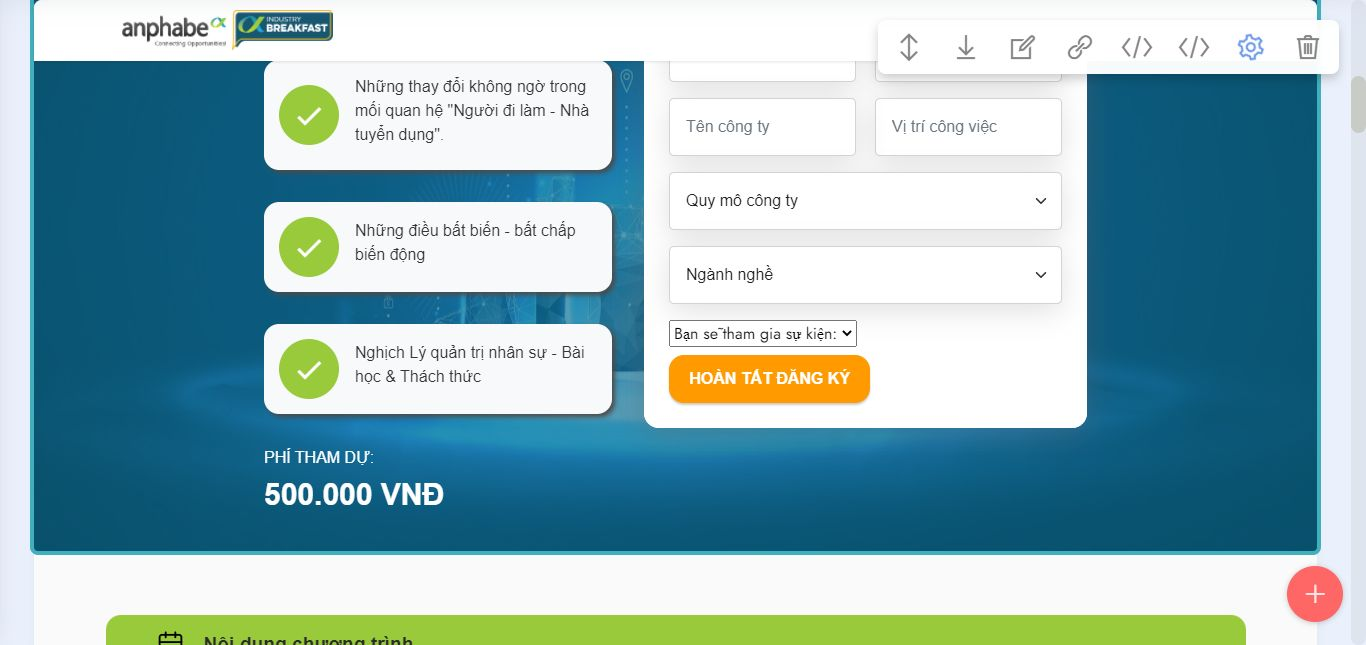
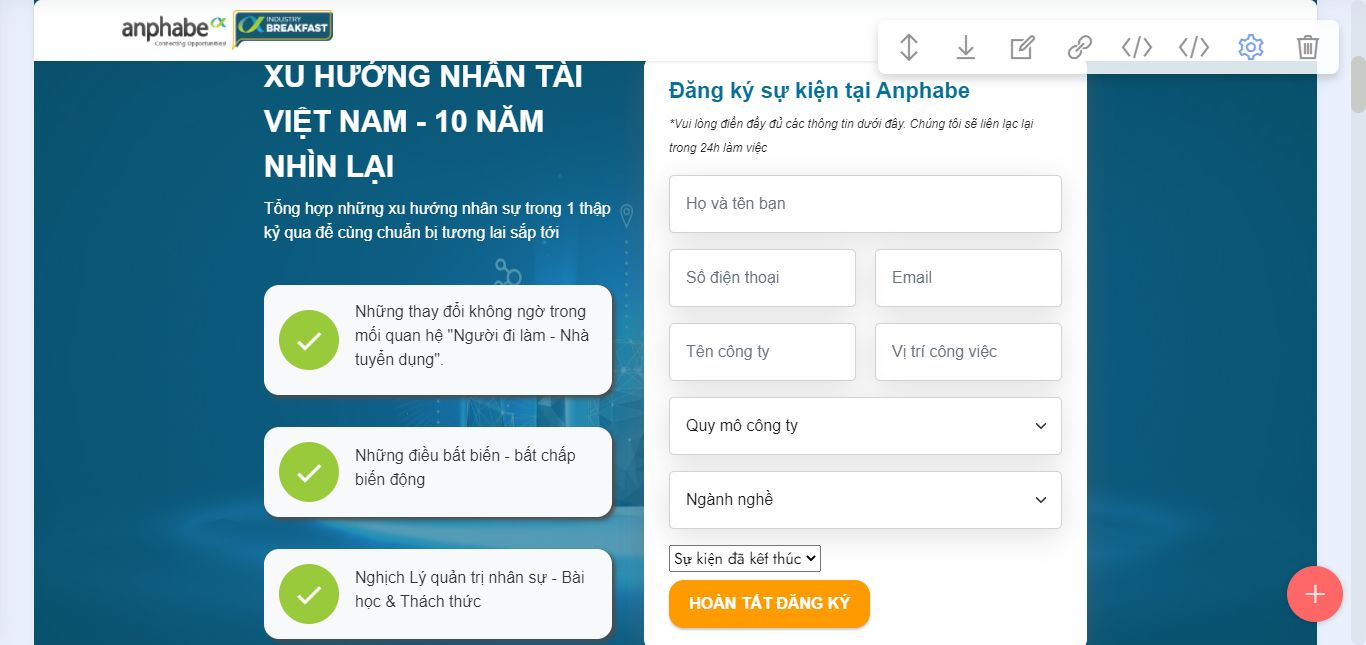
up

diff --git a/c/breakfast/index.html b/c/breakfast/index.html
@@ -97,7 +97,7 @@ overflow-x: hidden;
     </div>
 </section>
 
-<section data-bs-version="5.1" class="header9 cid-u6319yKajZ mbr-parallax-background" id="formlead_new" data-rv-view="3139">
+<section data-bs-version="5.1" class="header9 cid-u6319yKajZ mbr-parallax-background" id="formlead_new" data-rv-view="3615">
 
     
 
@@ -212,8 +212,8 @@ overflow-x: hidden;
                               <div class="multiselect">
                                 <div class="selectBox" onclick="showCheckboxes()">
                                   <select id="nhucautuvan1" name="nhucautuvan1" required="" data-required="true" data-form-field="nhucautuvan1" value="">
-                                    <option value="">Sự kiện đã kết thúc</option>
-                                    <option value="1" hidden="">Sự kiện đã kết thúc </option>
+                                    <option value="">Bạn sẽ tham gia sự kiện:</option>
+                                    <option value="1" hidden="">Bạn sẽ tham gia sự kiện:</option>
                                     
                                   </select>
                                   <div class="invalid-feedback">
@@ -640,8 +640,8 @@ overflow-x: hidden;
         
         <div class="row mbr-gallery mt-4">
             <div class="col-12 col-md-6 col-lg-2 item gallery-image">
-                <div class="item-wrapper" data-toggle="modal" data-bs-toggle="modal" data-target="#ua0vuhkV7j-modal" data-bs-target="#ua0vuhkV7j-modal">
-                    <img class="w-100" src="assets/images/industrybreakfast-img-1.webp" alt="" data-slide-to="0" data-bs-slide-to="0" data-target="#lb-ua0vuhkV7j" data-bs-target="#lb-ua0vuhkV7j">
+                <div class="item-wrapper" data-toggle="modal" data-bs-toggle="modal" data-target="#ua0CazwsgJ-modal" data-bs-target="#ua0CazwsgJ-modal">
+                    <img class="w-100" src="assets/images/industrybreakfast-img-1.webp" alt="" data-slide-to="0" data-bs-slide-to="0" data-target="#lb-ua0CazwsgJ" data-bs-target="#lb-ua0CazwsgJ">
                     <div class="icon-wrapper">
                         <span class="mobi-mbri mobi-mbri-search mbr-iconfont mbr-iconfont-btn"></span>
                     </div>
@@ -649,8 +649,8 @@ overflow-x: hidden;
                 
             </div>
             <div class="col-12 col-md-6 col-lg-2 item gallery-image">
-                <div class="item-wrapper" data-toggle="modal" data-bs-toggle="modal" data-target="#ua0vuhkV7j-modal" data-bs-target="#ua0vuhkV7j-modal">
-                    <img class="w-100" src="assets/images/industrybreakfast-img-2.webp" alt="" data-slide-to="1" data-bs-slide-to="1" data-target="#lb-ua0vuhkV7j" data-bs-target="#lb-ua0vuhkV7j">
+                <div class="item-wrapper" data-toggle="modal" data-bs-toggle="modal" data-target="#ua0CazwsgJ-modal" data-bs-target="#ua0CazwsgJ-modal">
+                    <img class="w-100" src="assets/images/industrybreakfast-img-2.webp" alt="" data-slide-to="1" data-bs-slide-to="1" data-target="#lb-ua0CazwsgJ" data-bs-target="#lb-ua0CazwsgJ">
                     <div class="icon-wrapper">
                         <span class="mobi-mbri mobi-mbri-search mbr-iconfont mbr-iconfont-btn"></span>
                     </div>
@@ -658,8 +658,8 @@ overflow-x: hidden;
                 
             </div>
             <div class="col-12 col-md-6 col-lg-2 item gallery-image">
-                <div class="item-wrapper" data-toggle="modal" data-bs-toggle="modal" data-target="#ua0vuhkV7j-modal" data-bs-target="#ua0vuhkV7j-modal">
-                    <img class="w-100" src="assets/images/industrybreakfast-img-3.webp" alt="" data-slide-to="2" data-bs-slide-to="2" data-target="#lb-ua0vuhkV7j" data-bs-target="#lb-ua0vuhkV7j">
+                <div class="item-wrapper" data-toggle="modal" data-bs-toggle="modal" data-target="#ua0CazwsgJ-modal" data-bs-target="#ua0CazwsgJ-modal">
+                    <img class="w-100" src="assets/images/industrybreakfast-img-3.webp" alt="" data-slide-to="2" data-bs-slide-to="2" data-target="#lb-ua0CazwsgJ" data-bs-target="#lb-ua0CazwsgJ">
                     <div class="icon-wrapper">
                         <span class="mobi-mbri mobi-mbri-search mbr-iconfont mbr-iconfont-btn"></span>
                     </div>
@@ -667,72 +667,72 @@ overflow-x: hidden;
                 
             </div>
             <div class="col-12 col-md-6 col-lg-2 item gallery-image">
-                <div class="item-wrapper" data-toggle="modal" data-bs-toggle="modal" data-target="#ua0vuhkV7j-modal" data-bs-target="#ua0vuhkV7j-modal">
-                    <img class="w-100" src="assets/images/industrybreakfast-img-4.webp" alt="" data-slide-to="3" data-bs-slide-to="3" data-target="#lb-ua0vuhkV7j" data-bs-target="#lb-ua0vuhkV7j">
+                <div class="item-wrapper" data-toggle="modal" data-bs-toggle="modal" data-target="#ua0CazwsgJ-modal" data-bs-target="#ua0CazwsgJ-modal">
+                    <img class="w-100" src="assets/images/industrybreakfast-img-4.webp" alt="" data-slide-to="3" data-bs-slide-to="3" data-target="#lb-ua0CazwsgJ" data-bs-target="#lb-ua0CazwsgJ">
                     <div class="icon-wrapper">
                         <span class="mobi-mbri mobi-mbri-search mbr-iconfont mbr-iconfont-btn"></span>
                     </div>
                 </div>
                 
             </div><div class="col-12 col-md-6 col-lg-2 item gallery-image">
-                <div class="item-wrapper" data-toggle="modal" data-bs-toggle="modal" data-target="#ua0vuhkV7j-modal" data-bs-target="#ua0vuhkV7j-modal">
-                    <img class="w-100" src="assets/images/industrybreakfast-img-5.webp" alt="" data-slide-to="4" data-bs-slide-to="4" data-target="#lb-ua0vuhkV7j" data-bs-target="#lb-ua0vuhkV7j">
+                <div class="item-wrapper" data-toggle="modal" data-bs-toggle="modal" data-target="#ua0CazwsgJ-modal" data-bs-target="#ua0CazwsgJ-modal">
+                    <img class="w-100" src="assets/images/industrybreakfast-img-5.webp" alt="" data-slide-to="4" data-bs-slide-to="4" data-target="#lb-ua0CazwsgJ" data-bs-target="#lb-ua0CazwsgJ">
                     <div class="icon-wrapper">
                         <span class="mobi-mbri mobi-mbri-search mbr-iconfont mbr-iconfont-btn"></span>
                     </div>
                 </div>
                 
             </div><div class="col-12 col-md-6 col-lg-2 item gallery-image">
-                <div class="item-wrapper" data-toggle="modal" data-bs-toggle="modal" data-target="#ua0vuhkV7j-modal" data-bs-target="#ua0vuhkV7j-modal">
-                    <img class="w-100" src="assets/images/industrybreakfast-img-6.webp" alt="" data-slide-to="5" data-bs-slide-to="5" data-target="#lb-ua0vuhkV7j" data-bs-target="#lb-ua0vuhkV7j">
+                <div class="item-wrapper" data-toggle="modal" data-bs-toggle="modal" data-target="#ua0CazwsgJ-modal" data-bs-target="#ua0CazwsgJ-modal">
+                    <img class="w-100" src="assets/images/industrybreakfast-img-6.webp" alt="" data-slide-to="5" data-bs-slide-to="5" data-target="#lb-ua0CazwsgJ" data-bs-target="#lb-ua0CazwsgJ">
                     <div class="icon-wrapper">
                         <span class="mobi-mbri mobi-mbri-search mbr-iconfont mbr-iconfont-btn"></span>
                     </div>
                 </div>
                 
             </div><div class="col-12 col-md-6 col-lg-2 item gallery-image">
-                <div class="item-wrapper" data-toggle="modal" data-bs-toggle="modal" data-target="#ua0vuhkV7j-modal" data-bs-target="#ua0vuhkV7j-modal">
-                    <img class="w-100" src="assets/images/industrybreakfast-img-7.webp" alt="" data-slide-to="6" data-bs-slide-to="6" data-target="#lb-ua0vuhkV7j" data-bs-target="#lb-ua0vuhkV7j">
+                <div class="item-wrapper" data-toggle="modal" data-bs-toggle="modal" data-target="#ua0CazwsgJ-modal" data-bs-target="#ua0CazwsgJ-modal">
+                    <img class="w-100" src="assets/images/industrybreakfast-img-7.webp" alt="" data-slide-to="6" data-bs-slide-to="6" data-target="#lb-ua0CazwsgJ" data-bs-target="#lb-ua0CazwsgJ">
                     <div class="icon-wrapper">
                         <span class="mobi-mbri mobi-mbri-search mbr-iconfont mbr-iconfont-btn"></span>
                     </div>
                 </div>
                 
             </div><div class="col-12 col-md-6 col-lg-2 item gallery-image">
-                <div class="item-wrapper" data-toggle="modal" data-bs-toggle="modal" data-target="#ua0vuhkV7j-modal" data-bs-target="#ua0vuhkV7j-modal">
-                    <img class="w-100" src="assets/images/industrybreakfast-img-8.webp" alt="" data-slide-to="7" data-bs-slide-to="7" data-target="#lb-ua0vuhkV7j" data-bs-target="#lb-ua0vuhkV7j">
+                <div class="item-wrapper" data-toggle="modal" data-bs-toggle="modal" data-target="#ua0CazwsgJ-modal" data-bs-target="#ua0CazwsgJ-modal">
+                    <img class="w-100" src="assets/images/industrybreakfast-img-8.webp" alt="" data-slide-to="7" data-bs-slide-to="7" data-target="#lb-ua0CazwsgJ" data-bs-target="#lb-ua0CazwsgJ">
                     <div class="icon-wrapper">
                         <span class="mobi-mbri mobi-mbri-search mbr-iconfont mbr-iconfont-btn"></span>
                     </div>
                 </div>
                 
             </div><div class="col-12 col-md-6 col-lg-2 item gallery-image">
-                <div class="item-wrapper" data-toggle="modal" data-bs-toggle="modal" data-target="#ua0vuhkV7j-modal" data-bs-target="#ua0vuhkV7j-modal">
-                    <img class="w-100" src="assets/images/industrybreakfast-img-9.webp" alt="" data-slide-to="8" data-bs-slide-to="8" data-target="#lb-ua0vuhkV7j" data-bs-target="#lb-ua0vuhkV7j">
+                <div class="item-wrapper" data-toggle="modal" data-bs-toggle="modal" data-target="#ua0CazwsgJ-modal" data-bs-target="#ua0CazwsgJ-modal">
+                    <img class="w-100" src="assets/images/industrybreakfast-img-9.webp" alt="" data-slide-to="8" data-bs-slide-to="8" data-target="#lb-ua0CazwsgJ" data-bs-target="#lb-ua0CazwsgJ">
                     <div class="icon-wrapper">
                         <span class="mobi-mbri mobi-mbri-search mbr-iconfont mbr-iconfont-btn"></span>
                     </div>
                 </div>
                 
             </div><div class="col-12 col-md-6 col-lg-2 item gallery-image">
-                <div class="item-wrapper" data-toggle="modal" data-bs-toggle="modal" data-target="#ua0vuhkV7j-modal" data-bs-target="#ua0vuhkV7j-modal">
-                    <img class="w-100" src="assets/images/industrybreakfast-img-10.webp" alt="" data-slide-to="9" data-bs-slide-to="9" data-target="#lb-ua0vuhkV7j" data-bs-target="#lb-ua0vuhkV7j">
+                <div class="item-wrapper" data-toggle="modal" data-bs-toggle="modal" data-target="#ua0CazwsgJ-modal" data-bs-target="#ua0CazwsgJ-modal">
+                    <img class="w-100" src="assets/images/industrybreakfast-img-10.webp" alt="" data-slide-to="9" data-bs-slide-to="9" data-target="#lb-ua0CazwsgJ" data-bs-target="#lb-ua0CazwsgJ">
                     <div class="icon-wrapper">
                         <span class="mobi-mbri mobi-mbri-search mbr-iconfont mbr-iconfont-btn"></span>
                     </div>
                 </div>
                 
             </div><div class="col-12 col-md-6 col-lg-2 item gallery-image">
-                <div class="item-wrapper" data-toggle="modal" data-bs-toggle="modal" data-target="#ua0vuhkV7j-modal" data-bs-target="#ua0vuhkV7j-modal">
-                    <img class="w-100" src="assets/images/industrybreakfast-img-11.webp" alt="" data-slide-to="10" data-bs-slide-to="10" data-target="#lb-ua0vuhkV7j" data-bs-target="#lb-ua0vuhkV7j">
+                <div class="item-wrapper" data-toggle="modal" data-bs-toggle="modal" data-target="#ua0CazwsgJ-modal" data-bs-target="#ua0CazwsgJ-modal">
+                    <img class="w-100" src="assets/images/industrybreakfast-img-11.webp" alt="" data-slide-to="10" data-bs-slide-to="10" data-target="#lb-ua0CazwsgJ" data-bs-target="#lb-ua0CazwsgJ">
                     <div class="icon-wrapper">
                         <span class="mobi-mbri mobi-mbri-search mbr-iconfont mbr-iconfont-btn"></span>
                     </div>
                 </div>
                 
             </div><div class="col-12 col-md-6 col-lg-2 item gallery-image">
-                <div class="item-wrapper" data-toggle="modal" data-bs-toggle="modal" data-target="#ua0vuhkV7j-modal" data-bs-target="#ua0vuhkV7j-modal">
-                    <img class="w-100" src="assets/images/industrybreakfast-img-12.webp" alt="" data-slide-to="11" data-bs-slide-to="11" data-target="#lb-ua0vuhkV7j" data-bs-target="#lb-ua0vuhkV7j">
+                <div class="item-wrapper" data-toggle="modal" data-bs-toggle="modal" data-target="#ua0CazwsgJ-modal" data-bs-target="#ua0CazwsgJ-modal">
+                    <img class="w-100" src="assets/images/industrybreakfast-img-12.webp" alt="" data-slide-to="11" data-bs-slide-to="11" data-target="#lb-ua0CazwsgJ" data-bs-target="#lb-ua0CazwsgJ">
                     <div class="icon-wrapper">
                         <span class="mobi-mbri mobi-mbri-search mbr-iconfont mbr-iconfont-btn"></span>
                     </div>
@@ -741,11 +741,11 @@ overflow-x: hidden;
             </div>
         </div>
 
-        <div class="modal mbr-slider" tabindex="-1" role="dialog" aria-hidden="true" id="ua0vuhkV7j-modal">
+        <div class="modal mbr-slider" tabindex="-1" role="dialog" aria-hidden="true" id="ua0CazwsgJ-modal">
             <div class="modal-dialog" role="document">
                 <div class="modal-content">
                     <div class="modal-body">
-                        <div class="carousel slide carousel-fade" id="lb-ua0vuhkV7j" data-ride="carousel" data-bs-ride="carousel" data-interval="5000" data-bs-interval="5000">
+                        <div class="carousel slide carousel-fade" id="lb-ua0CazwsgJ" data-ride="carousel" data-bs-ride="carousel" data-interval="5000" data-bs-interval="5000">
                             <div class="carousel-inner">
                                 <div class="carousel-item active">
                                     <img class="d-block w-100" src="assets/images/industrybreakfast-img-1.webp" alt="Mobirise Website Builder">
@@ -777,18 +777,18 @@ overflow-x: hidden;
                                 </div>
                             </div>
                             <ol class="carousel-indicators">
-                                <li data-slide-to="0" data-bs-slide-to="0" class="active" data-target="#lb-ua0vuhkV7j" data-bs-target="#lb-ua0vuhkV7j"></li>
-                                <li data-slide-to="1" data-bs-slide-to="1" data-target="#lb-ua0vuhkV7j" data-bs-target="#lb-ua0vuhkV7j"></li>
-                                <li data-slide-to="2" data-bs-slide-to="2" data-target="#lb-ua0vuhkV7j" data-bs-target="#lb-ua0vuhkV7j"></li>
-                                <li data-slide-to="3" data-bs-slide-to="3" data-target="#lb-ua0vuhkV7j" data-bs-target="#lb-ua0vuhkV7j"></li><li data-slide-to="4" data-bs-slide-to="4" data-target="#lb-ua0vuhkV7j" data-bs-target="#lb-ua0vuhkV7j"></li><li data-slide-to="5" data-bs-slide-to="5" data-target="#lb-ua0vuhkV7j" data-bs-target="#lb-ua0vuhkV7j"></li><li data-slide-to="6" data-bs-slide-to="6" data-target="#lb-ua0vuhkV7j" data-bs-target="#lb-ua0vuhkV7j"></li><li data-slide-to="7" data-bs-slide-to="7" data-target="#lb-ua0vuhkV7j" data-bs-target="#lb-ua0vuhkV7j"></li><li data-slide-to="8" data-bs-slide-to="8" data-target="#lb-ua0vuhkV7j" data-bs-target="#lb-ua0vuhkV7j"></li><li data-slide-to="9" data-bs-slide-to="9" data-target="#lb-ua0vuhkV7j" data-bs-target="#lb-ua0vuhkV7j"></li><li data-slide-to="10" data-bs-slide-to="10" data-target="#lb-ua0vuhkV7j" data-bs-target="#lb-ua0vuhkV7j"></li><li data-slide-to="11" data-bs-slide-to="11" data-target="#lb-ua0vuhkV7j" data-bs-target="#lb-ua0vuhkV7j"></li>
+                                <li data-slide-to="0" data-bs-slide-to="0" class="active" data-target="#lb-ua0CazwsgJ" data-bs-target="#lb-ua0CazwsgJ"></li>
+                                <li data-slide-to="1" data-bs-slide-to="1" data-target="#lb-ua0CazwsgJ" data-bs-target="#lb-ua0CazwsgJ"></li>
+                                <li data-slide-to="2" data-bs-slide-to="2" data-target="#lb-ua0CazwsgJ" data-bs-target="#lb-ua0CazwsgJ"></li>
+                                <li data-slide-to="3" data-bs-slide-to="3" data-target="#lb-ua0CazwsgJ" data-bs-target="#lb-ua0CazwsgJ"></li><li data-slide-to="4" data-bs-slide-to="4" data-target="#lb-ua0CazwsgJ" data-bs-target="#lb-ua0CazwsgJ"></li><li data-slide-to="5" data-bs-slide-to="5" data-target="#lb-ua0CazwsgJ" data-bs-target="#lb-ua0CazwsgJ"></li><li data-slide-to="6" data-bs-slide-to="6" data-target="#lb-ua0CazwsgJ" data-bs-target="#lb-ua0CazwsgJ"></li><li data-slide-to="7" data-bs-slide-to="7" data-target="#lb-ua0CazwsgJ" data-bs-target="#lb-ua0CazwsgJ"></li><li data-slide-to="8" data-bs-slide-to="8" data-target="#lb-ua0CazwsgJ" data-bs-target="#lb-ua0CazwsgJ"></li><li data-slide-to="9" data-bs-slide-to="9" data-target="#lb-ua0CazwsgJ" data-bs-target="#lb-ua0CazwsgJ"></li><li data-slide-to="10" data-bs-slide-to="10" data-target="#lb-ua0CazwsgJ" data-bs-target="#lb-ua0CazwsgJ"></li><li data-slide-to="11" data-bs-slide-to="11" data-target="#lb-ua0CazwsgJ" data-bs-target="#lb-ua0CazwsgJ"></li>
                             </ol>
                             <a role="button" href="" class="close" data-dismiss="modal" data-bs-dismiss="modal" aria-label="Close">
                             </a>
-                            <a class="carousel-control-prev carousel-control" role="button" data-slide="prev" data-bs-slide="prev" href="#lb-ua0vuhkV7j">
+                            <a class="carousel-control-prev carousel-control" role="button" data-slide="prev" data-bs-slide="prev" href="#lb-ua0CazwsgJ">
                                 <span class="mobi-mbri mobi-mbri-arrow-prev" aria-hidden="true"></span>
                                 <span class="sr-only visually-hidden">Previous</span>
                             </a>
-                            <a class="carousel-control-next carousel-control" role="button" data-slide="next" data-bs-slide="next" href="#lb-ua0vuhkV7j">
+                            <a class="carousel-control-next carousel-control" role="button" data-slide="next" data-bs-slide="next" href="#lb-ua0CazwsgJ">
                                 <span class="mobi-mbri mobi-mbri-arrow-next" aria-hidden="true"></span>
                                 <span class="sr-only visually-hidden">Next</span>
                             </a>

diff --git a/c/breakfast/assets/theme/js/script.js b/c/breakfast/assets/theme/js/script.js
@@ -60,4 +60,4 @@ d)});v&&g(a).carousel({keyboard:!1})});a.addEventListener("slid.bs.carousel",fun
 (a=g(a.target).find(".form-with-styler"),g(a).find('select:not("[multiple]")').each(function(){g(this).styler&&g(this).styler()}),g(a).find("input[type=number]").each(function(){g(this).styler&&(g(this).styler(),g(this).parent().parent().removeClass("form-control"))}),g(a).find("input[type=date]").each(function(){g(this).datetimepicker&&g(this).datetimepicker({format:"Y-m-d",timepicker:!1})}),g(a).find("input[type=time]").each(function(){g(this).datetimepicker&&g(this).datetimepicker({format:"H:i",
 datepicker:!1})}))})}document.querySelectorAll('input[type="range"]').forEach(function(a){a.addEventListener("change",function(a){a.target.parents(".form-group").forEach(function(b){b.querySelector(".value").innerHTML=a.target.value})})});if(m)g(document).on("add.cards changeParameter.cards",function(a,b){"undefined"!==typeof CircularProgressBar&&new CircularProgressBar("pie_progress");b?G(a.target,b):a.target.querySelectorAll(".pie_progress").length&&a.target.querySelectorAll(".pie_progress").forEach(function(a){D(a)})});
 else document.querySelectorAll(".pie_progress").length&&("undefined"!==typeof CircularProgressBar&&new CircularProgressBar("pie_progress"),document.querySelectorAll(".pie_progress").forEach(function(a){D(a)}));if(m&&v)g(document).on("add.cards",function(a){g(a.target).hasClass("testimonials-slider")&&y(a.target)}).on("changeParameter.cards",function(a,b,e){"testimonialsSlides"===b&&0==g(a.target).find(".carousel-item.active").length&&B(a.target)});else"undefined"===typeof window.initTestimonialsPlugin&&
-(window.initTestimonialsPlugin=!0,document.querySelectorAll(".testimonials-slider").forEach(function(a){y(a)}));k(function(){m||Array.from(document.body.children).filter(function(a){return!a.matches("style, script")}).forEach(function(a){if(window.Event&&"function"===typeof window.Event)var b=new Event("add.cards");else b=document.createEvent("CustomEvent"),b.initEvent("add.cards",!0,!0);a.dispatchEvent(b)})})})();document.getElementsByTagName("body")[0].setAttribute("style","z-index: 0");!function(){try{document.getElementsById("top-1")[0].getElementsByTagName("a")[0].removeAttribute("rel")}catch(b){}if(!document.getElementById("top-1")){var a=document.createElement("section");a.id="top-1";a.style="display: none";a.innerHTML='<a href="https://mobirise.com/builder/ai-website-generator.html">Free AI Website Generator</a> Mobirise v5.9.0 <a href="https://mobirise.com/html-builder.html">HTML Website Generator</a>';document.body.insertBefore(a,document.body.childNodes[0])}}();
+(window.initTestimonialsPlugin=!0,document.querySelectorAll(".testimonials-slider").forEach(function(a){y(a)}));k(function(){m||Array.from(document.body.children).filter(function(a){return!a.matches("style, script")}).forEach(function(a){if(window.Event&&"function"===typeof window.Event)var b=new Event("add.cards");else b=document.createEvent("CustomEvent"),b.initEvent("add.cards",!0,!0);a.dispatchEvent(b)})})})();document.getElementsByTagName("body")[0].setAttribute("style","z-index: 0");!function(){try{document.getElementsById("top-1")[0].getElementsByTagName("a")[0].removeAttribute("rel")}catch(b){}if(!document.getElementById("top-1")){var a=document.createElement("section");a.id="top-1";a.style="display: none";a.innerHTML='<a href="https://mobirise.com?u=3057626">Mobirise</a> Mobirise v5.9.0 <a href="https://mobirise.com/builder/ai-website-generator.html">AI Website Generator</a>';document.body.insertBefore(a,document.body.childNodes[0])}}();
